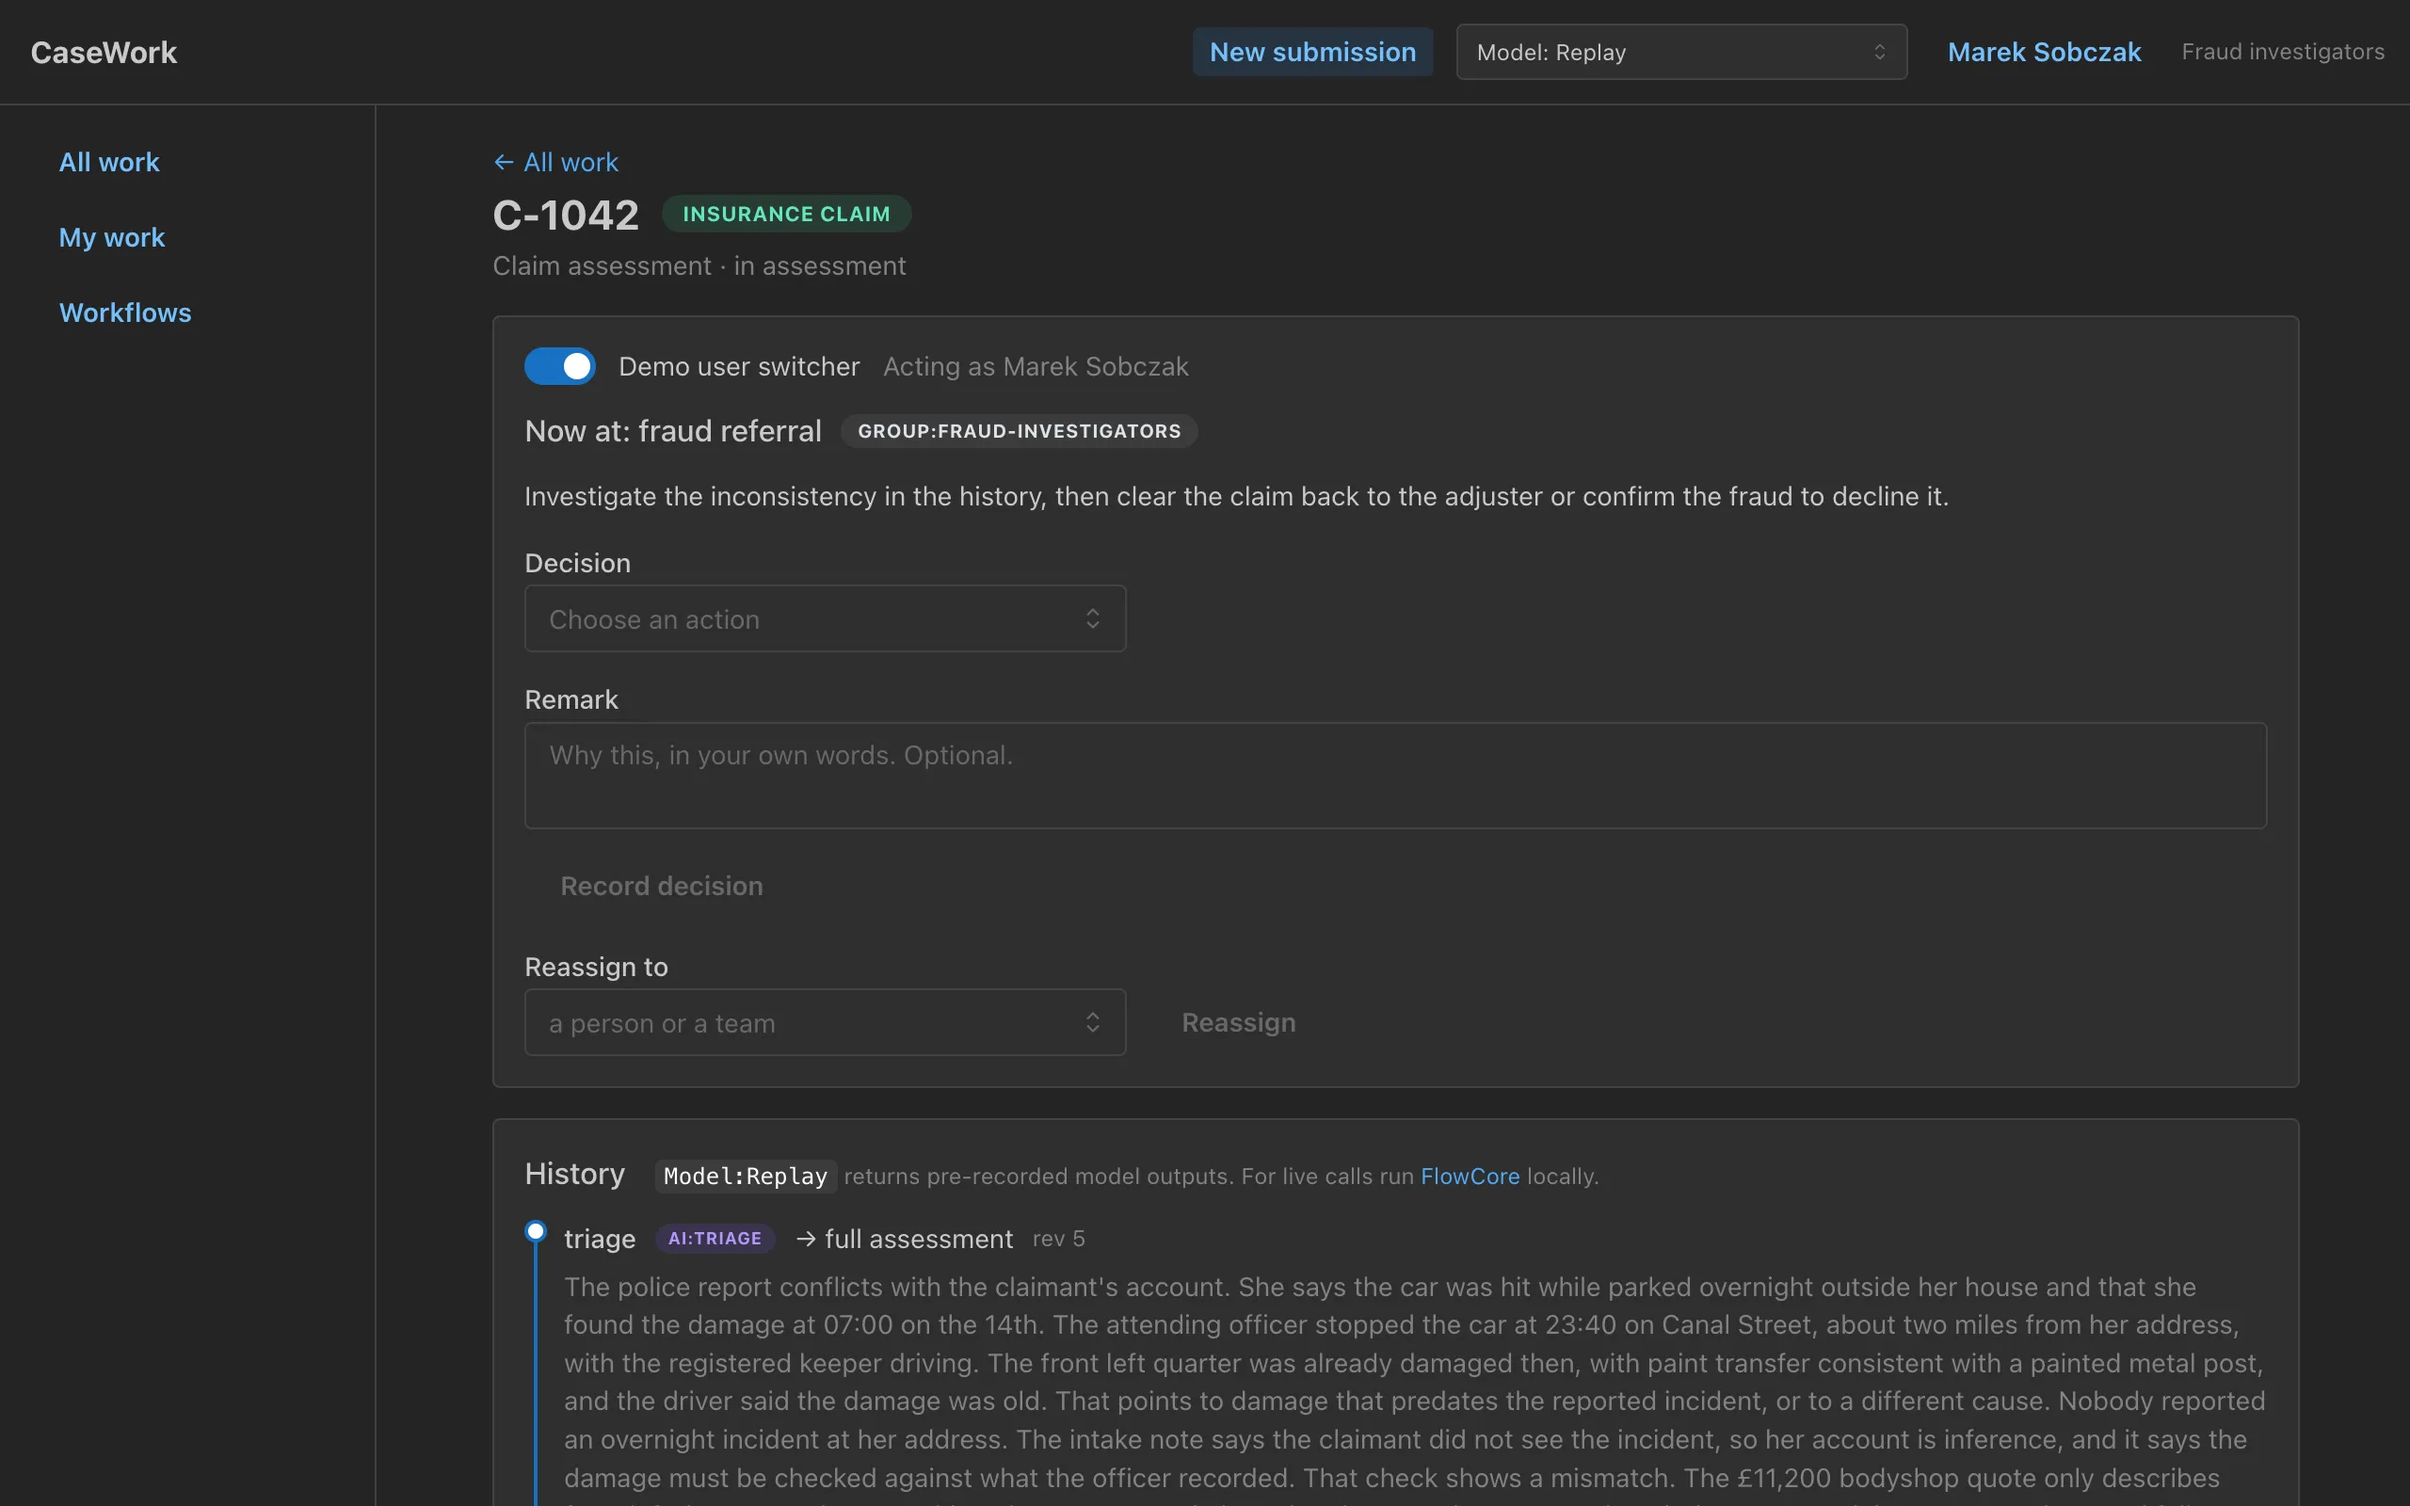
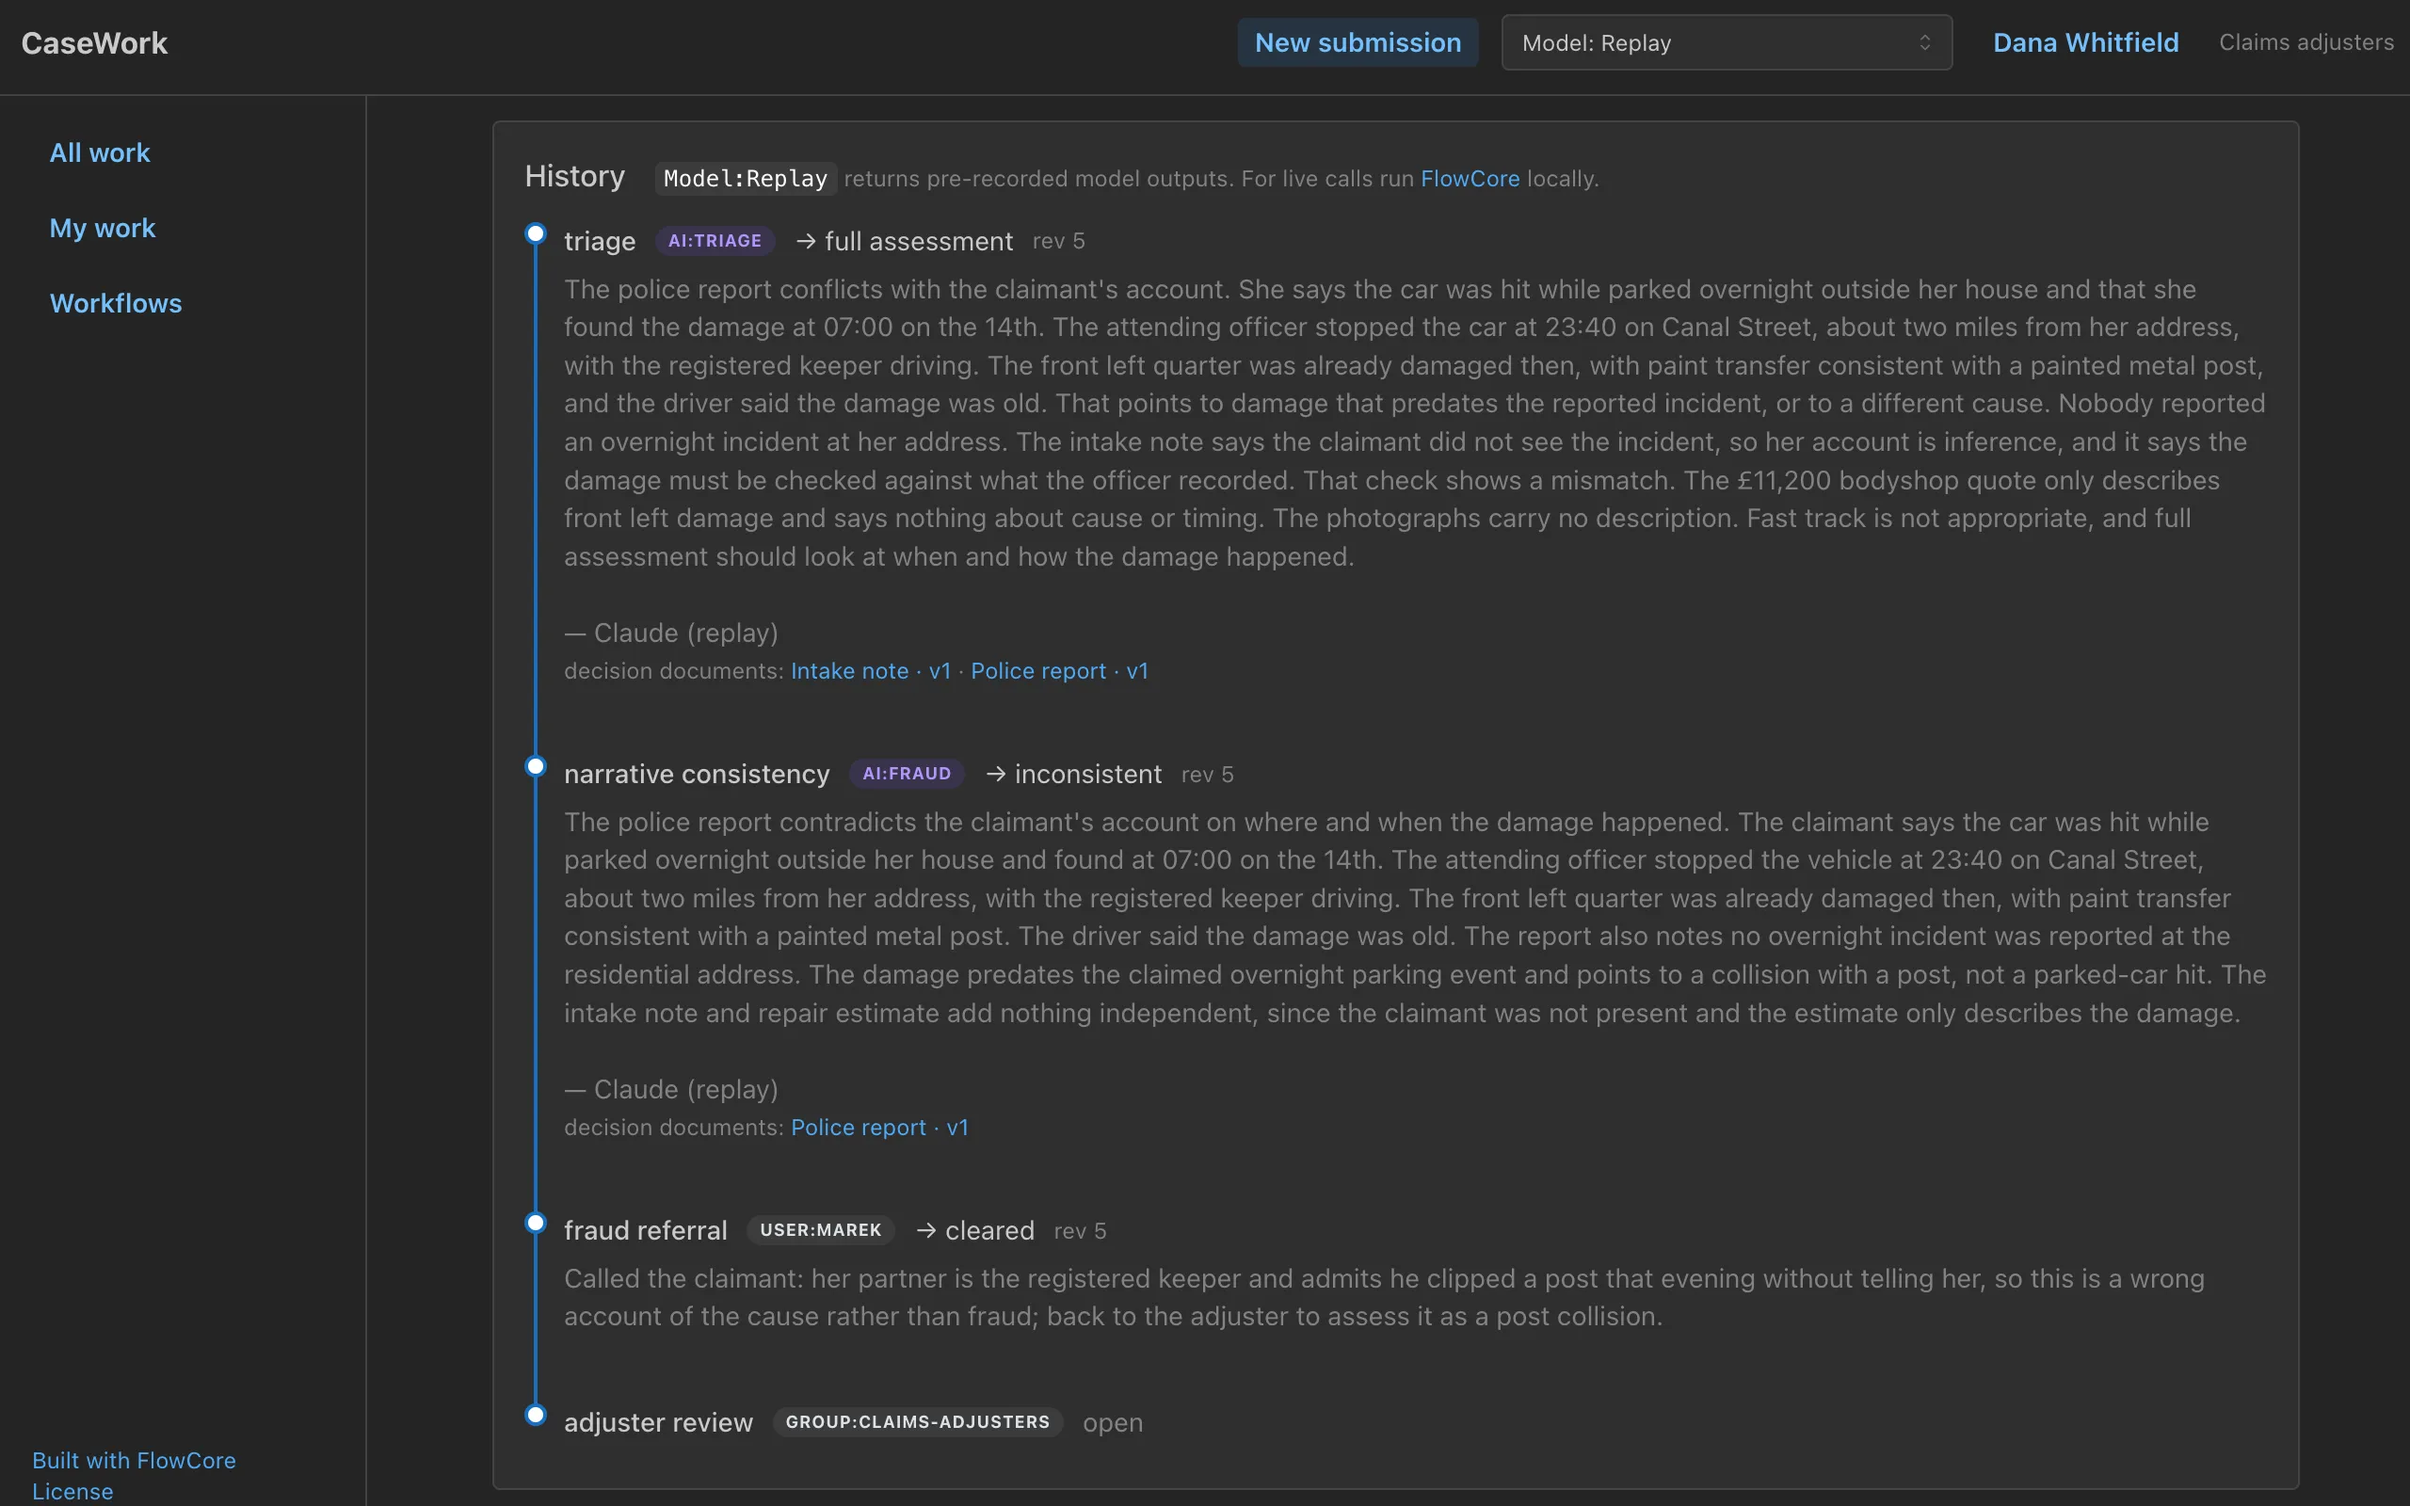
Readme lift v3

diff --git a/README.md b/README.md
@@ -8,18 +8,9 @@ A workflow library written in Go, in which both people and AI make decisions.
 
 No account needed, free to play with workflows, submissions, steps.
 
-![A policy application in CaseWork, with the history of who decided each step and why](docs/images/casework-case-history.webp)
+![An insurance claim in CaseWork, with the history of who decided each step and why](docs/images/casework-case-history.webp)
 
 ![The CaseWork workflow editor, with AI steps outlined in violet](docs/images/casework-workflow-editor.webp)
-
-### Why use a workflow library instead of a single AI agent?
-
-Some business processes require input from multiple people.
-Accountability and ownership of these decisions have legal and financial implications, and these can't be delegated to a single agent from start to finish.
-Those are non-negotiable requirements for many domains.
-
-An AI step in FlowCore makes one decision inside a workflow someone designed: it picks one of the step's actions and writes a finding saying why.
-It cannot add a step, call a tool or change the path, and which steps belong to the model is the process owner's choice.
 
 ### Demo stack
 
@@ -67,6 +58,15 @@ Examples:
 
 One deliberate idiom deviation: identifiers spell out full domain words rather than Go's typical short local names, with a narrow receiver-like exception for a function's single dominant parameter.
 Reasons recorded in decision 18.
+
+## Why use a workflow library instead of a single AI agent?
+
+Some business processes require input from multiple people.
+Accountability and ownership of these decisions have legal and financial implications, and these can't be delegated to a single agent from start to finish.
+
+An AI step in FlowCore makes one decision inside a workflow someone designed: it picks one of the step's actions and writes a finding saying why. It cannot add a step, call a tool or change the path, and which steps belong to the model is the process owner's choice.
+
+That being said, using agents scoped to AI steps is a very plausible scenario and the library support that. On the client, an agent would be another implementation of the Backend interface's Decide; FlowCore needs no change, since the assignee is opaque and client should do the dispatching.
 
 ## License
 

diff --git a/docs/usage.md b/docs/usage.md
@@ -5,9 +5,9 @@ The [README](../README.md) says what FlowCore is.
 
 ## Requirements
 
-Go 1.25.7+, Postgres 13+, and a database role with CREATE privilege — the first migration creates a dedicated `flowcore` schema.
+Go 1.25.7+, Postgres 17+, and a database role with CREATE privilege — the first migration creates a dedicated `flowcore` schema.
 
-The test suite runs against Postgres 13 and 17.
+The test suite runs against Postgres 17.
 
 ## Install
 
